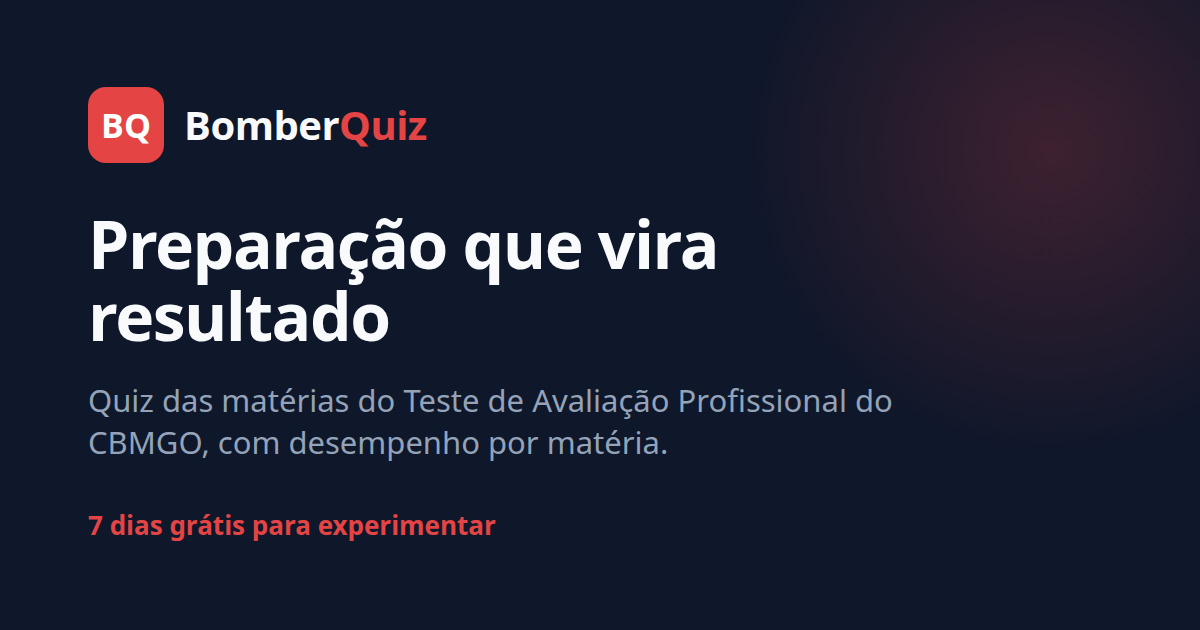
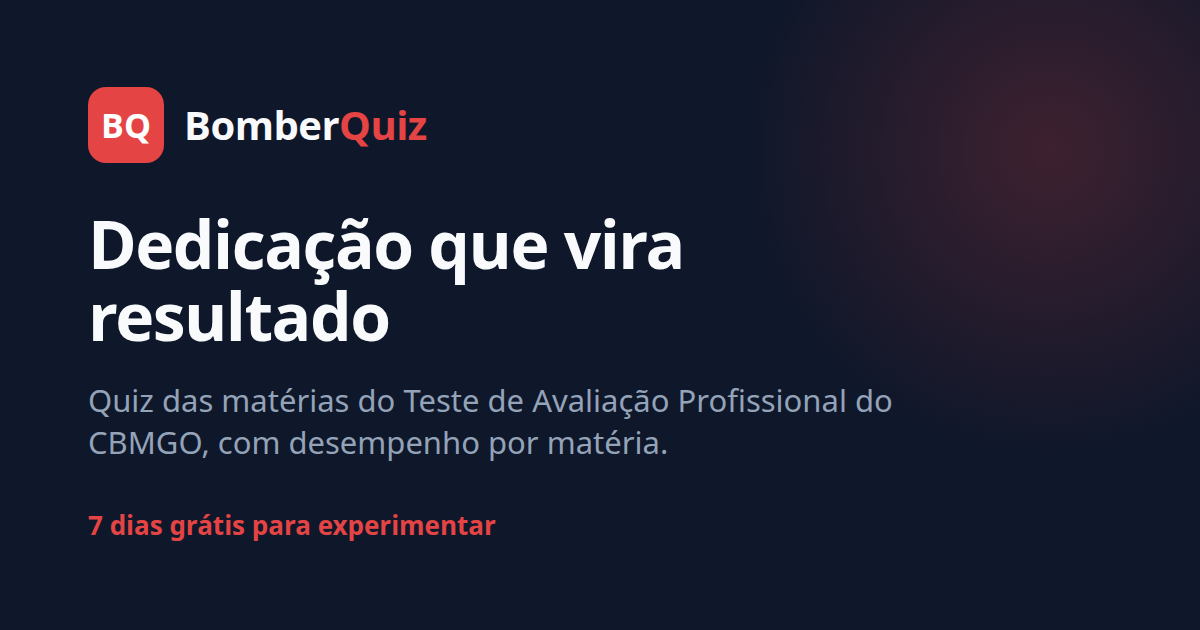
fix: corrige teste que estava divergente das últimas orientações

Changed region(s): [[0.0617, 0.3317, 0.6167, 0.4524]]

diff --git a/tests/unit/vitrine-page.test.tsx b/tests/unit/vitrine-page.test.tsx
@@ -69,15 +69,30 @@ function renderRaiz({ logado, planos = PLANOS }: { logado: boolean; planos?: unk
   )
 }
 
+/**
+ * Os CTAs pelo DESTINO, nunca pelo texto. O que estes testes garantem é que a
+ * vitrine oferece caminho para o cadastro — a redação do botão é copy, existe
+ * para ser reescrita, e prendê-la fazia um ajuste de texto quebrar quatro
+ * asserções de uma vez.
+ *
+ * São dois na vitrine: o do herói e o do pé da seção de planos. `queryAll…`, e
+ * não `getAll…`, porque este helper também serve para provar AUSÊNCIA — na tela
+ * de quem já tem sessão não há link nenhum, e o `getAll…` lançaria em vez de
+ * devolver lista vazia.
+ */
+function ctasDeCadastro(): HTMLElement[] {
+  return screen.queryAllByRole("link").filter((l) => l.getAttribute("href") === "/cadastro")
+}
+
 beforeEach(() => {
   vi.clearAllMocks()
 })
 
 describe("Vitrine em / (visitante sem sessão)", () => {
   /**
-   * Verifica que existe um título e o CTA, não QUAL é o texto: a copy da
-   * vitrine é para ser mexida, e um teste que prende a frase exata quebra a
-   * cada ajuste sem apontar defeito nenhum.
+   * Verifica que existe um título e um caminho para o cadastro, não QUAL é o
+   * texto: a copy da vitrine é para ser mexida, e um teste que prende a frase
+   * exata quebra a cada ajuste sem apontar defeito nenhum.
    */
   it("mostra a vitrine em vez de mandar para o login", async () => {
     // Act
@@ -85,7 +100,7 @@ describe("Vitrine em / (visitante sem sessão)", () => {
 
     // Assert
     expect(await screen.findByRole("heading", { level: 1 })).toBeInTheDocument()
-    expect(screen.getByRole("link", { name: "Experimente grátis por 7 dias" })).toBeInTheDocument()
+    expect(ctasDeCadastro().length).toBeGreaterThan(0)
   })
 
   /**
@@ -112,13 +127,14 @@ describe("Vitrine em / (visitante sem sessão)", () => {
     expect(screen.queryByText("R$ 29,90 por mês")).not.toBeInTheDocument()
   })
 
-  it("o CTA principal leva ao cadastro", async () => {
+  it("oferece o cadastro no topo e no pé da seção de planos", async () => {
     // Act
     renderRaiz({ logado: false })
 
-    // Assert
-    const cta = await screen.findByRole("link", { name: "Experimente grátis por 7 dias" })
-    expect(cta).toHaveAttribute("href", "/cadastro")
+    // Assert — dois pontos de entrada: quem se convence pelo título e quem só
+    // se convence depois de ver o preço não deveriam ter de rolar de volta.
+    await screen.findByRole("heading", { level: 1 })
+    expect(ctasDeCadastro()).toHaveLength(2)
   })
 
   it("mantém o convite para entrar, para quem já é cliente", async () => {
@@ -139,8 +155,8 @@ describe("Vitrine em / (visitante sem sessão)", () => {
     renderRaiz({ logado: false, planos: { items: [] } })
 
     // Assert
-    expect(await screen.findByText(/O teste grátis de 7 dias continua disponível/)).toBeInTheDocument()
-    expect(screen.getByRole("link", { name: "Experimente grátis por 7 dias" })).toBeInTheDocument()
+    expect(await screen.findByText(/teste grátis/i)).toBeInTheDocument()
+    expect(ctasDeCadastro().length).toBeGreaterThan(0)
   })
 
   /**
@@ -201,14 +217,25 @@ describe("Vitrine em / (visitante sem sessão)", () => {
     expect(screen.queryByText(/OFF/)).not.toBeInTheDocument();
   });
 
-  it("fecha os três passos com a frase de efeito", async () => {
+  /**
+   * Verifica a DECISÃO, não a frase. O fecho dos passos é um `<p>` e não um
+   * heading de propósito: em HTML um título anuncia o que vem DEPOIS dele, e
+   * quem navega por títulos num leitor de tela aterrissaria nele e cairia
+   * direto nos planos (ver o comentário em `vitrine-page.tsx`).
+   *
+   * A âncora são os `<h3>` dos cards — estrutura, não texto de venda. A versão
+   * anterior deste teste exigia a frase literal e quebrou o CI no primeiro
+   * ajuste de copy, sem apontar defeito nenhum.
+   */
+  it("fecha os três passos com uma frase, e não com um título falso", async () => {
     // Act
     renderRaiz({ logado: false });
 
     // Assert
-    expect(
-      await screen.findByText("Preparação que vira resultado"),
-    ).toBeInTheDocument();
+    const passos = await screen.findAllByRole("heading", { level: 3 });
+    const fecho = passos[0]!.closest("section")!.lastElementChild!;
+    expect(fecho.tagName).toBe("P");
+    expect(fecho.textContent?.trim()).not.toBe("");
   });
 
   it("leva a termos e privacidade no rodapé", async () => {
@@ -231,7 +258,7 @@ describe("Vitrine em / (quem já tem sessão)", () => {
     await waitFor(() => {
       // Pelo CTA, não pelo título: é o elemento que só existe na página de
       // venda e cuja presença aqui seria o defeito de verdade.
-      expect(screen.queryByRole("link", { name: "Experimente grátis por 7 dias" })).not.toBeInTheDocument()
+      expect(ctasDeCadastro()).toHaveLength(0)
     })
   })
 })

diff --git a/index.html b/index.html
@@ -39,7 +39,7 @@
     <meta property="og:image" content="https://app.bomberquiz.com.br/og-image.png" />
     <meta property="og:image:width" content="1200" />
     <meta property="og:image:height" content="630" />
-    <meta property="og:image:alt" content="BomberQuiz — Preparação que vira resultado" />
+    <meta property="og:image:alt" content="BomberQuiz — Dedicação que vira resultado" />
     <meta property="og:locale" content="pt_BR" />
     <meta name="twitter:card" content="summary_large_image" />
     <meta name="twitter:title" content="BomberQuiz — Quiz para o TAP do CBMGO" />

diff --git a/tools/og-image.html b/tools/og-image.html
@@ -47,7 +47,7 @@
 <body>
   <div class="glow"></div>
   <div class="mark"><div class="badge">BQ</div><div class="word">Bomber<span>Quiz</span></div></div>
-  <h1>Preparação que vira resultado</h1>
+  <h1>Dedicação que vira resultado</h1>
   <p>Quiz das matérias do Teste de Avaliação Profissional do CBMGO, com desempenho por matéria.</p>
   <div class="cta">7 dias grátis para experimentar</div>
 </body></html>
